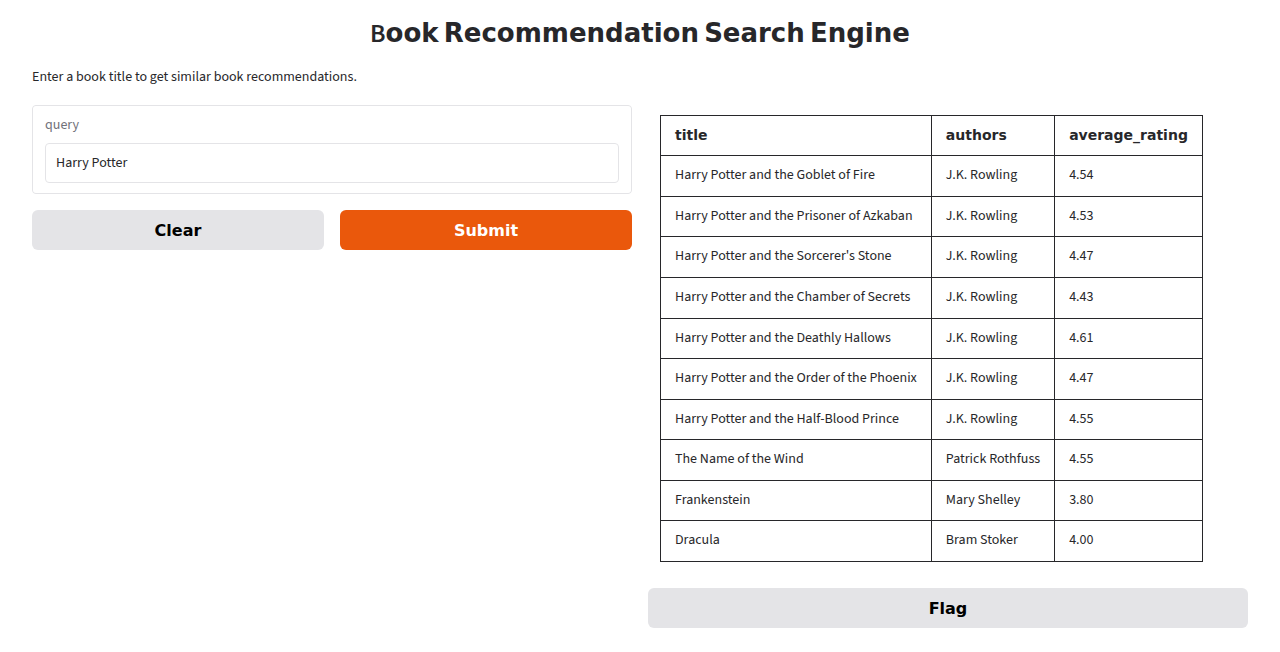
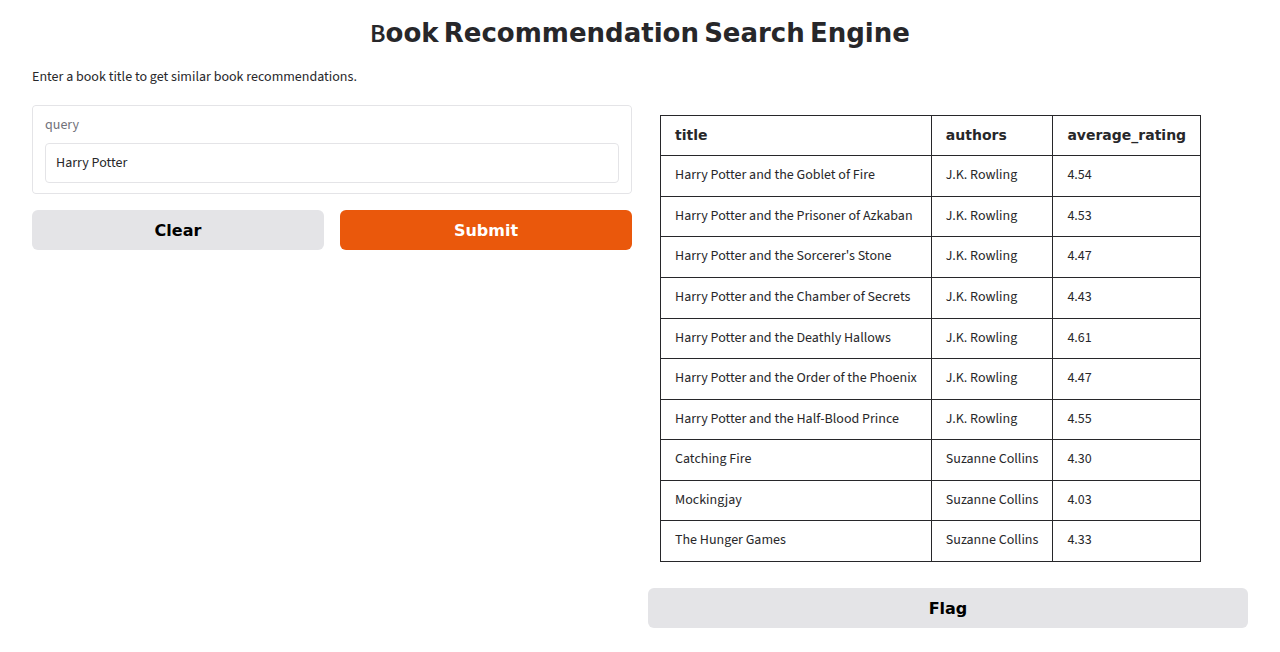
Fix combined-similarity dead code and stopword reload
get_recommendations now finds the closest title match for the query,
then ranks every book against that match using cosine_sim_combined (the
title+author+publisher+language_code similarity matrix) instead of
ignoring it. Recommendations reflect shared author/publisher/language,
not just title text, e.g. searching "The Hobbit" now surfaces the other
Tolkien/Houghton Mifflin books even though their titles share no words.

clean_text now loads the NLTK stopword list once at import time
(ENGLISH_STOPWORDS, a frozenset) instead of re-fetching it from NLTK on
every word during filtering. Output is unchanged - same words filtered,
same cleaned text - just much faster.

Measured against a synthetic ~11,123-row dataset (matching the real
dataset's size) in a fresh venv:
- load_books (text cleaning): 148.57s -> 6.47s
- BookRecommender fit (vectorizers + similarity matrix, now actually
  used): 5.89s, unchanged - this cost is real work now, not dead weight
- total load+fit: ~154s -> ~12.4s

README and docstrings updated to describe the current behavior,
including the two known edges of the anchor-then-expand approach: no
similarity floor (an unmatched query still anchors on whatever title
scores highest), and a query that matches an existing book tends to
rank that book first in its own results. Screenshot in docs/ regenerated
against the fixed code.

diff --git a/book_recommender/recommender.py b/book_recommender/recommender.py
@@ -1,17 +1,22 @@
 """TF-IDF vectorization and cosine-similarity scoring.
 
-Direct port of the vectorization/recommendation cell from the original
-notebook. Two separate TF-IDF spaces are built:
+Vectorization is a direct port of the original notebook: two TF-IDF
+spaces are built at fit time.
 
 - tfidf_combined: title + authors + publisher + language_code, capped at
-  5000 features. Used to compute cosine_sim_combined at fit time.
-- tfidf_title: title text only, unbounded vocabulary. Used to score
-  incoming queries in get_recommendations.
+  5000 features. cosine_sim_combined is its full book-to-book similarity
+  matrix.
+- tfidf_title: title text only, unbounded vocabulary. Used to match a
+  free-text query against the corpus, since a typed query can't be looked
+  up in a book-to-book matrix directly.
 
-The combined-text space is fit and its full pairwise similarity matrix is
-computed, but get_recommendations does not read from it - see the
-'cosine_sim' parameter below and the project README for details. That
-behavior is unchanged from the original notebook.
+get_recommendations uses both: title similarity finds the single closest
+book to the typed query (partial title matching), then cosine_sim_combined
+ranks every book against that match. That's what makes recommendations
+reflect shared author/publisher/language, not just title text - see the
+project README for the reasoning. In the original notebook, scoring was
+title-only and cosine_sim_combined was computed but never read; this is
+the fixed version.
 """
 
 from sklearn.feature_extraction.text import TfidfVectorizer
@@ -44,13 +49,21 @@ class BookRecommender:
         )
 
     def get_recommendations(self, query, cosine_sim=None):
-        """Return the top 10 books whose titles are closest to `query`.
+        """Return the top 10 books most similar to `query`'s closest title match.
 
-        `cosine_sim` mirrors the original notebook's function signature,
-        which defaulted to the precomputed combined-text similarity matrix.
-        It's accepted here for the same interface parity but - as in the
-        source notebook - is never read inside this method; scoring is
-        done entirely via a fresh query-vs-title-corpus similarity below.
+        Two steps: find the single book whose title is closest to `query`
+        (partial title matching via the title-only vectorizer), then rank
+        every book against that book using `cosine_sim` - the combined
+        title+author+publisher+language_code similarity matrix. Defaults to
+        `self.cosine_sim_combined`; accepting it as a parameter mirrors the
+        original notebook's function signature.
+
+        A query with no meaningful title overlap still anchors on whatever
+        book scores highest (there's no similarity floor), so it still
+        returns 10 books - just not meaningful ones. Same for a query that
+        exactly matches a book already in the corpus: that book will
+        anchor on itself and typically rank first in its own results,
+        since a book is maximally similar to itself.
 
         Returns a DataFrame with columns: title, authors, average_rating.
         """
@@ -60,7 +73,9 @@ class BookRecommender:
         query_cleaned = clean_text(query)
         query_vector = self.tfidf_title.transform([query_cleaned])
         title_similarities = cosine_similarity(query_vector, self.tfidf_title_matrix).flatten()
+        best_match_index = title_similarities.argmax()
 
-        similar_indices = title_similarities.argsort()[-10:][::-1]
+        combined_similarities = cosine_sim[best_match_index]
+        similar_indices = combined_similarities.argsort()[-10:][::-1]
         recommended_books = self.df.iloc[similar_indices][['title', 'authors', 'average_rating']]
         return recommended_books

diff --git a/book_recommender/data_loader.py b/book_recommender/data_loader.py
@@ -1,9 +1,13 @@
 """Load the books CSV and clean its text fields for vectorization.
 
-This is a direct port of the preprocessing cell from the original notebook
+This is a port of the preprocessing cell from the original notebook
 (IDriven_Book_Shopping_Recommendation_Engine.ipynb) - same regex, same
-stopword filtering, same column combination. Only the NLTK download has
-been made conditional so it doesn't hit the network on every run.
+stopword filtering, same column combination. Two things were changed from
+a straight port: the NLTK download is conditional instead of hitting the
+network on every run, and the stopword list is loaded once at import time
+instead of being re-fetched on every word during filtering. Both are
+startup-time fixes only - the set of words treated as stopwords, and so
+the cleaned output, is unchanged.
 """
 
 import re
@@ -29,13 +33,18 @@ def ensure_nltk_stopwords():
 
 ensure_nltk_stopwords()
 
+ENGLISH_STOPWORDS = frozenset(stopwords.words('english'))
+
 
 def clean_text(text):
     """Strip non-letters, lowercase, and drop English stopwords.
 
-    Note: this re-fetches stopwords.words('english') on every word during
-    filtering rather than loading it once - a pre-existing inefficiency
-    carried over unchanged from the original notebook.
+    The stopword set is loaded once at import time (ENGLISH_STOPWORDS)
+    rather than re-fetched from NLTK on every word, which is what the
+    original notebook did. That re-fetch was the dominant cost of loading
+    a real-sized (~11,000 row) dataset - see README.md for measured
+    before/after startup numbers. The set of words filtered, and so the
+    output for any given input, is identical either way.
 
     Non-string input (e.g. NaN from a missing CSV field) returns ''.
     """
@@ -43,7 +52,7 @@ def clean_text(text):
         text = re.sub('[^a-zA-Z]', ' ', text)
         text = text.lower()
         words = text.split()
-        words = [w for w in words if not w in stopwords.words('english')]
+        words = [w for w in words if w not in ENGLISH_STOPWORDS]
         return ' '.join(words)
     else:
         return ''

diff --git a/README.md b/README.md
@@ -1,6 +1,6 @@
 # Book Recommendation Engine
 
-Type in a book title and get back the 10 closest matches, ranked by how similar their text is to what you typed. It's a content-based recommender: no user accounts, no click history, no collaborative filtering. Just TF-IDF vectors over book metadata and cosine similarity between them, served through a one-box Gradio UI.
+Type in a book title and get back 10 similar books. It's a content-based recommender: no user accounts, no click history, no collaborative filtering. Just TF-IDF vectors over book metadata and cosine similarity between them, served through a one-box Gradio UI.
 
 ![Gradio interface showing a search for "Harry Potter" and its top 10 results](docs/gradio_interface.png)
 
@@ -8,9 +8,9 @@ Type in a book title and get back the 10 closest matches, ranked by how similar 
 
 ## What it does
 
-Every book in the dataset gets its title, authors, publisher, and language code cleaned (strip punctuation, lowercase, drop stopwords) and turned into TF-IDF vectors. When you search, your query goes through the same cleaning step, gets vectorized, and gets compared against every book's title vector with cosine similarity. The 10 highest-scoring books come back as a table with title, author, and average rating.
+Every book in the dataset gets its title, authors, publisher, and language code cleaned (strip punctuation, lowercase, drop stopwords) and turned into TF-IDF vectors. Search works in two steps: your query gets cleaned and compared against every book's title with cosine similarity to find the single closest title match, then that book gets compared against every other book using a second, wider similarity score built from title+author+publisher+language text. The 10 highest-scoring books from that second comparison come back as a table with title, author, and average rating. So a search is really "find the book closest to what I typed, then show me what's like that book" rather than a direct text match against your query.
 
-The stopword filter re-fetches NLTK's word list on every word it checks rather than loading it once per query. Fine at this dataset's size, would be worth caching if this ever ran over something much bigger.
+Loading the full ~11,000-row dataset takes about 12 seconds: roughly 6.5s to clean the text columns, another 6s to fit both vectorizers and build the similarity matrix described below. Cleaning used to take about 150s on its own, because `clean_text` was reloading NLTK's stopword list from scratch on every single word it checked instead of once. Hoisting that load out to run once at import time is most of the difference.
 
 ## Why combine title, author, and publisher into one field
 
@@ -18,11 +18,15 @@ Two books can be alike in ways a title alone won't show: same author, same publi
 
 Language code turned out to be a weak addition. Almost every row in the dataset is `eng`, so it barely moves the vector. I left it in because it was cheap to include and it does help on the rare non-English rows.
 
-One honest gap: the combined vectorizer and its full book-to-book similarity matrix get computed at startup, but the live search path doesn't use them. `get_recommendations` takes a `cosine_sim` argument that defaults to that combined matrix and never reads it in the function body - scoring runs through the title-only vectorizer instead. So today, search is really title-similarity search, not the title+author+publisher search the design intended. Wiring the combined matrix into scoring, or dropping it if title-only search turns out to be enough on its own, is the next thing to fix.
+The combined vectorizer and its full book-to-book similarity matrix (`cosine_sim_combined`, one row and column per book) get computed at startup and are what actually rank the results - see below.
 
 ## How TF-IDF and cosine similarity fit together here
 
-Two `TfidfVectorizer` instances get fit at startup: one on `combined_text` (described above), one on cleaned titles only. Cosine similarity is what actually drives search - a cleaned query is vectorized with the title vectorizer, compared against every title vector in the corpus, and `argsort` picks the top 10 by score. There's no similarity floor, so even a query with zero real overlap with anything in the corpus still gets back 10 books - whatever ranks highest by default. The UI has a "no similar books found" message for an empty result, but because scoring always returns exactly 10 rows, that message can never actually fire.
+Two `TfidfVectorizer` instances get fit at startup: one on `combined_text` (title+author+publisher+language, described above), one on cleaned titles only. They do different jobs. A typed query is free text that usually isn't an exact title, so there's no way to look it up directly in a book-to-book matrix - it has to be vectorized and compared fresh. That's what the title vectorizer is for: `get_recommendations` cleans the query, compares it against every title with cosine similarity, and takes the single best match (`argmax`, not top 10). From there, it switches to `cosine_sim_combined` and pulls that matched book's row out of the matrix - its precomputed combined-text similarity to every other book - and returns the top 10 from that row.
+
+In other words: title similarity finds the book you probably meant, and combined similarity finds what's like it. Search for "The Hobbit" and it'll surface the other Tolkien books published by the same house even though their titles share no words with "Hobbit" at all - that's the combined-field matching working as intended.
+
+Two things to know about the edges of this. There's no similarity floor, so a query with no real title overlap with anything still anchors on whatever title scores highest by default (index 0 if everything's tied at zero) and returns 10 books from that row - not meaningful, but never empty. And if your query matches an existing book closely enough to anchor on itself, that book is maximally similar to itself, so it usually lands as its own top result. The UI has a "no similar books found" message for an empty result, but because scoring always returns exactly 10 rows, that message can never actually fire.
 
 ## Dataset
 
